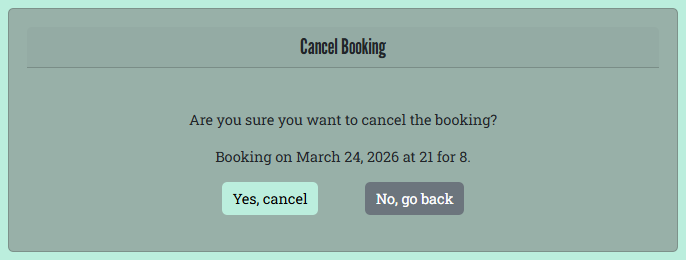
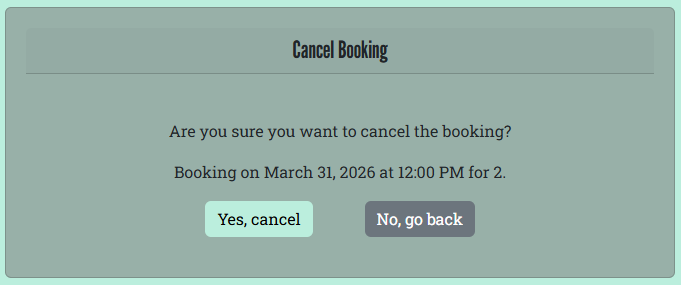
Change delete booking to display the time and update image for cancel booking

diff --git a/book_a_table/templates/book_a_table/delete_bookings.html b/book_a_table/templates/book_a_table/delete_bookings.html
@@ -24,7 +24,7 @@
                         {% csrf_token %}
                         <p>Are you sure you want to cancel the booking?</p>
                         <p>
-                            Booking on {{ booking.date }} at {{ booking.time }} for {{ booking.number_of_guests }}.
+                            Booking on {{ booking.date }} at {{ booking.get_time_display }} for {{ booking.number_of_guests }}.
                         </p>
                         <button type="submit" class="action-btn btn btn-primary mx-4">Yes, cancel</button>
                         <a href="{% url 'bookings' %}" class="btn action-btn btn-secondary mx-4">No, go back</a>
